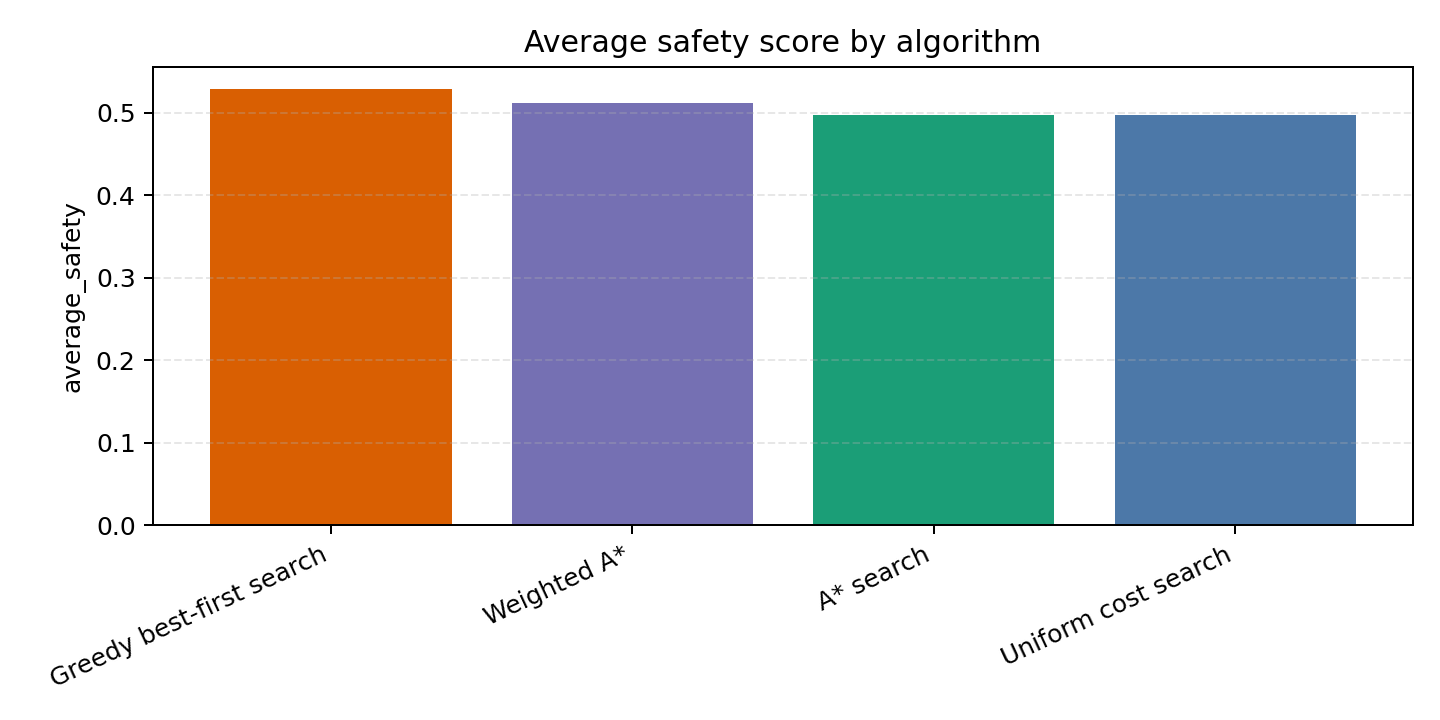
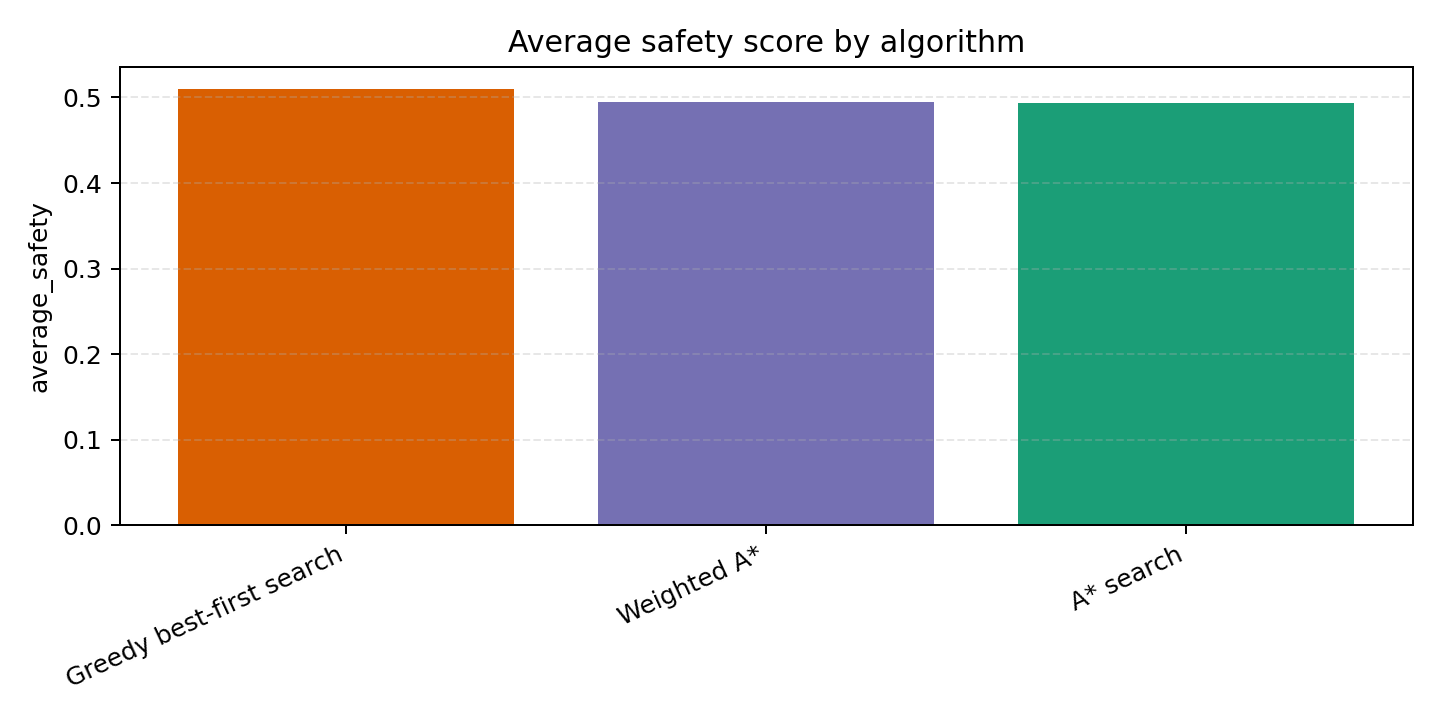
fix

diff --git a/dhaka-safe-passage-routing/dhaka_safe_passage/experiment_runner.py b/dhaka-safe-passage-routing/dhaka_safe_passage/experiment_runner.py
@@ -1,7 +1,7 @@
 """Whole-Dhaka informed-search safe-passage experiment pipeline.
 
 Run example:
-python -m dhaka_safe_passage.experiment_runner --pairs 15 --weighted-w 1.5 --include-ucs
+python -m dhaka_safe_passage.experiment_runner --pairs 15 --weighted-w 1.5
 """
 
 from __future__ import annotations
@@ -21,7 +21,6 @@ import pandas as pd
 from .algorithms import (
     a_star_search,
     greedy_best_first_search,
-    uniform_cost_search,
     weighted_a_star_search,
 )
 from .contextual_features import FeatureConfig, assign_contextual_features
@@ -36,6 +35,8 @@ from .visualization import (
     save_route_overlay,
     save_scatter,
 )
+
+INFORMED_ALGORITHMS = ("Greedy best-first search", "A* search", "Weighted A*")
 
 
 def _largest_component(G: nx.MultiDiGraph) -> nx.MultiDiGraph:
@@ -125,7 +126,6 @@ def _run_for_pair(
     start,
     goal,
     weighted_w: float,
-    include_ucs: bool,
     score_weights: SafeScoreWeights,
     h_weights: HeuristicWeights,
 ) -> tuple[list[dict], dict[str, list]]:
@@ -139,8 +139,6 @@ def _run_for_pair(
         ("A* search", lambda: a_star_search(G, start, goal, h_fn)),
         ("Weighted A*", lambda: weighted_a_star_search(G, start, goal, h_fn, w=weighted_w)),
     ]
-    if include_ucs:
-        algos.append(("Uniform cost search", lambda: uniform_cost_search(G, start, goal)))
 
     for label, fn in algos:
         res = fn()
@@ -242,7 +240,6 @@ def parse_args() -> argparse.Namespace:
     p.add_argument("--representative-pairs", type=int, default=3, help="Number of route overlays to save")
     p.add_argument("--seed", type=int, default=2026)
     p.add_argument("--weighted-w", type=float, default=1.5)
-    p.add_argument("--include-ucs", action="store_true", help="Include UCS baseline in informed comparison")
     p.add_argument("--min-distance-m", type=float, default=3500.0)
     p.add_argument("--max-distance-m", type=float, default=18000.0)
     p.add_argument("--practical-subgraph-nodes", type=int, default=0, help="Optional manageable subgraph size sampled from whole Dhaka context")
@@ -297,7 +294,6 @@ def main() -> None:
             s,
             g,
             args.weighted_w,
-            args.include_ucs,
             score_weights,
             heuristic_weights,
         )
@@ -306,7 +302,7 @@ def main() -> None:
             representative.append((pair_id, s, g, routes))
 
     df = pd.DataFrame(all_rows)
-    informed_df = df[df["algorithm_name"].isin(["Greedy best-first search", "A* search", "Weighted A*", "Uniform cost search"])].copy()
+    informed_df = df[df["algorithm_name"].isin(INFORMED_ALGORITHMS)].copy()
 
     mean_cols = [
         "total_path_cost",
@@ -345,7 +341,7 @@ def main() -> None:
     for pair_id, s, g, routes in representative:
         save_route_overlay(
             G,
-            {k: v for k, v in routes.items() if k in {"Greedy best-first search", "A* search", "Weighted A*", "Uniform cost search"}},
+            {k: v for k, v in routes.items() if k in INFORMED_ALGORITHMS},
             s,
             g,
             out["routes"] / f"route_overlay_pair_{pair_id:02d}.png",
@@ -354,7 +350,7 @@ def main() -> None:
 
     interpretation = _interpretation(df_mean)
     graph_info = f"Graph nodes={len(G)}, edges={len(G.edges())}, component={G.graph.get('component_type', 'unknown')}"
-    run_info = f"pairs={args.pairs}, weighted_w={args.weighted_w}, include_ucs={args.include_ucs}, seed={args.seed}"
+    run_info = f"pairs={args.pairs}, weighted_w={args.weighted_w}, seed={args.seed}"
     summary_text = "\n".join([graph_info, run_info, "", interpretation])
     (out["summary"] / "experiment_summary.txt").write_text(summary_text, encoding="utf-8")
 

diff --git a/dhaka-safe-passage-routing/dhaka_safe_passage/visualization.py b/dhaka-safe-passage-routing/dhaka_safe_passage/visualization.py
@@ -19,7 +19,6 @@ PALETTE = {
     "Greedy best-first search": "#d95f02",
     "A* search": "#1b9e77",
     "Weighted A*": "#7570b3",
-    "Uniform cost search": "#4c78a8",
 }
 
 

diff --git a/dhaka-safe-passage-routing/README.md b/dhaka-safe-passage-routing/README.md
@@ -28,7 +28,7 @@ Standalone extension repo for informed-search safe-passage evaluation on Dhaka r
 
 ## Important Scope Rule
 - Uninformed search implementations are copied as-is from the base project.
-- Safe-passage objective is applied to informed algorithms (Greedy, A*, Weighted A*) with optional UCS reference.
+- Safe-passage objective comparisons and plots are restricted to informed algorithms only: Greedy, A*, and Weighted A*.
 
 ## Graph Cache and Outputs
 - Graph cache folder (separate from your old repo runs): `graph_cache/`
@@ -43,7 +43,7 @@ pip install -r requirements.txt
 
 ## Run (Default)
 ```bash
-python -m dhaka_safe_passage.experiment_runner --pairs 12 --weighted-w 1.5 --include-ucs
+python -m dhaka_safe_passage.experiment_runner --pairs 12 --weighted-w 1.5
 ```
 
 ## Run (Practical Mode For Large Graph)
@@ -51,7 +51,6 @@ python -m dhaka_safe_passage.experiment_runner --pairs 12 --weighted-w 1.5 --inc
 python -m dhaka_safe_passage.experiment_runner \
   --pairs 15 \
   --weighted-w 1.5 \
-  --include-ucs \
   --practical-subgraph-nodes 18000
 ```
 
